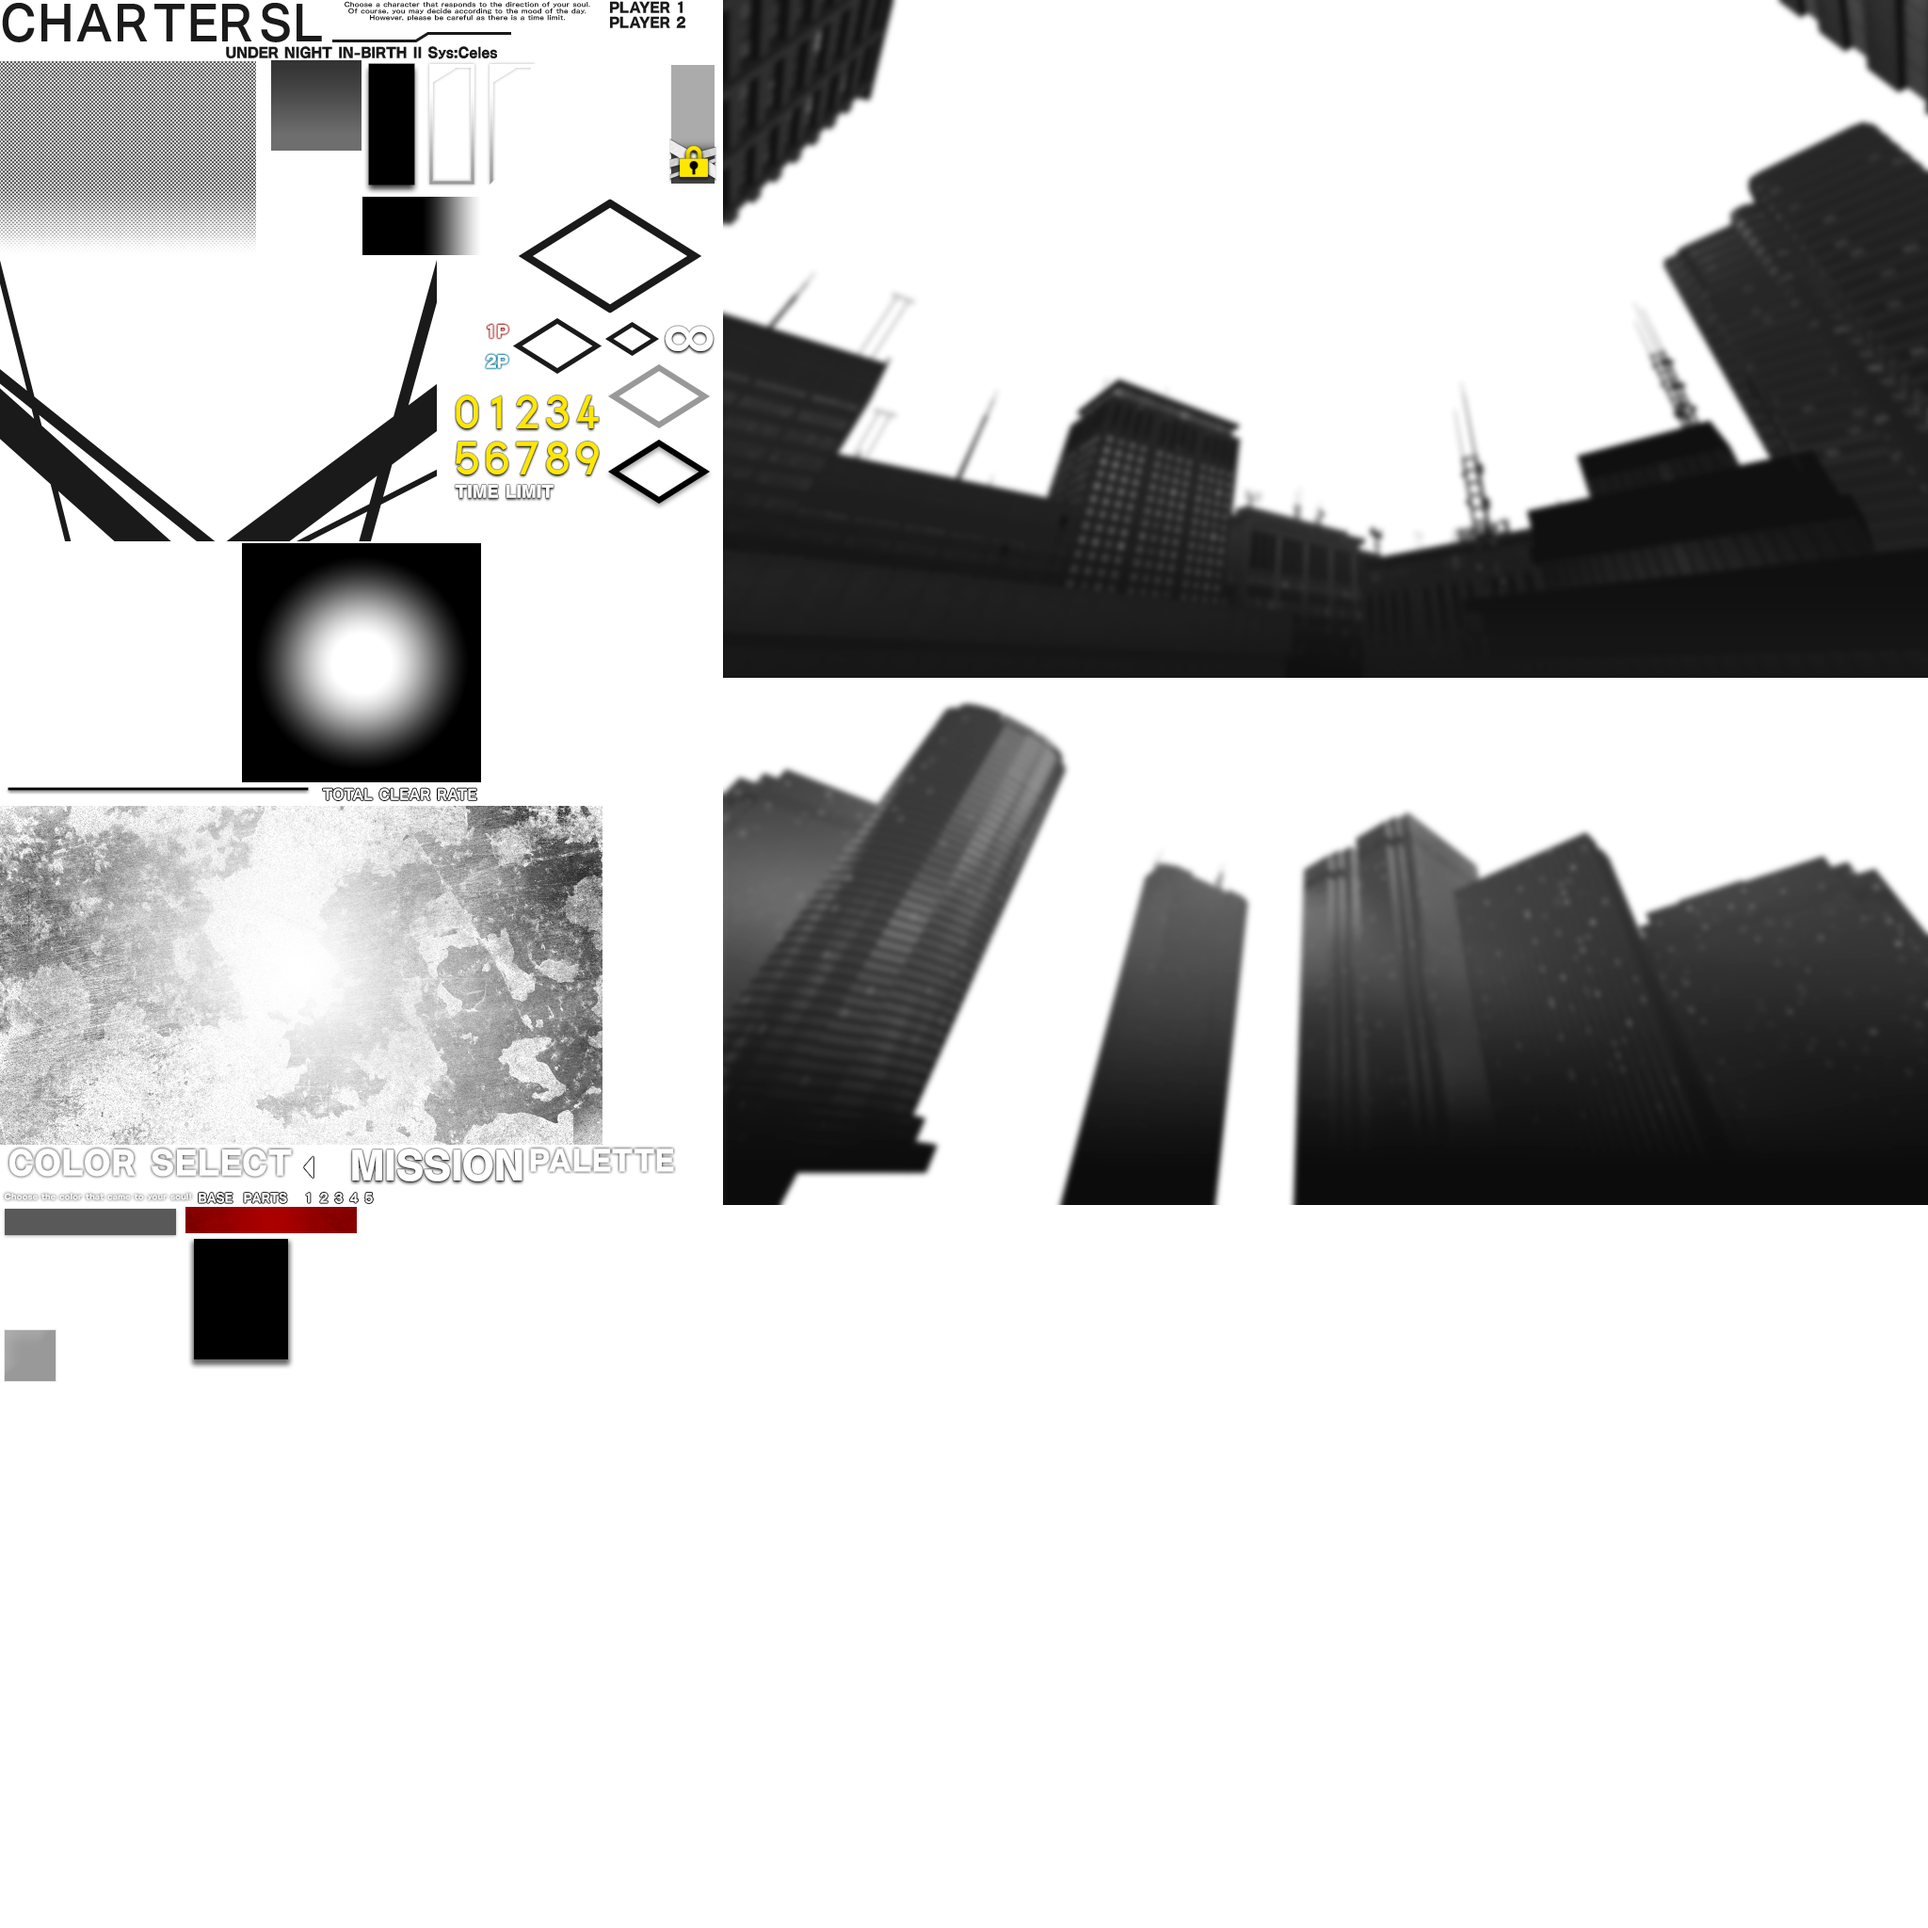
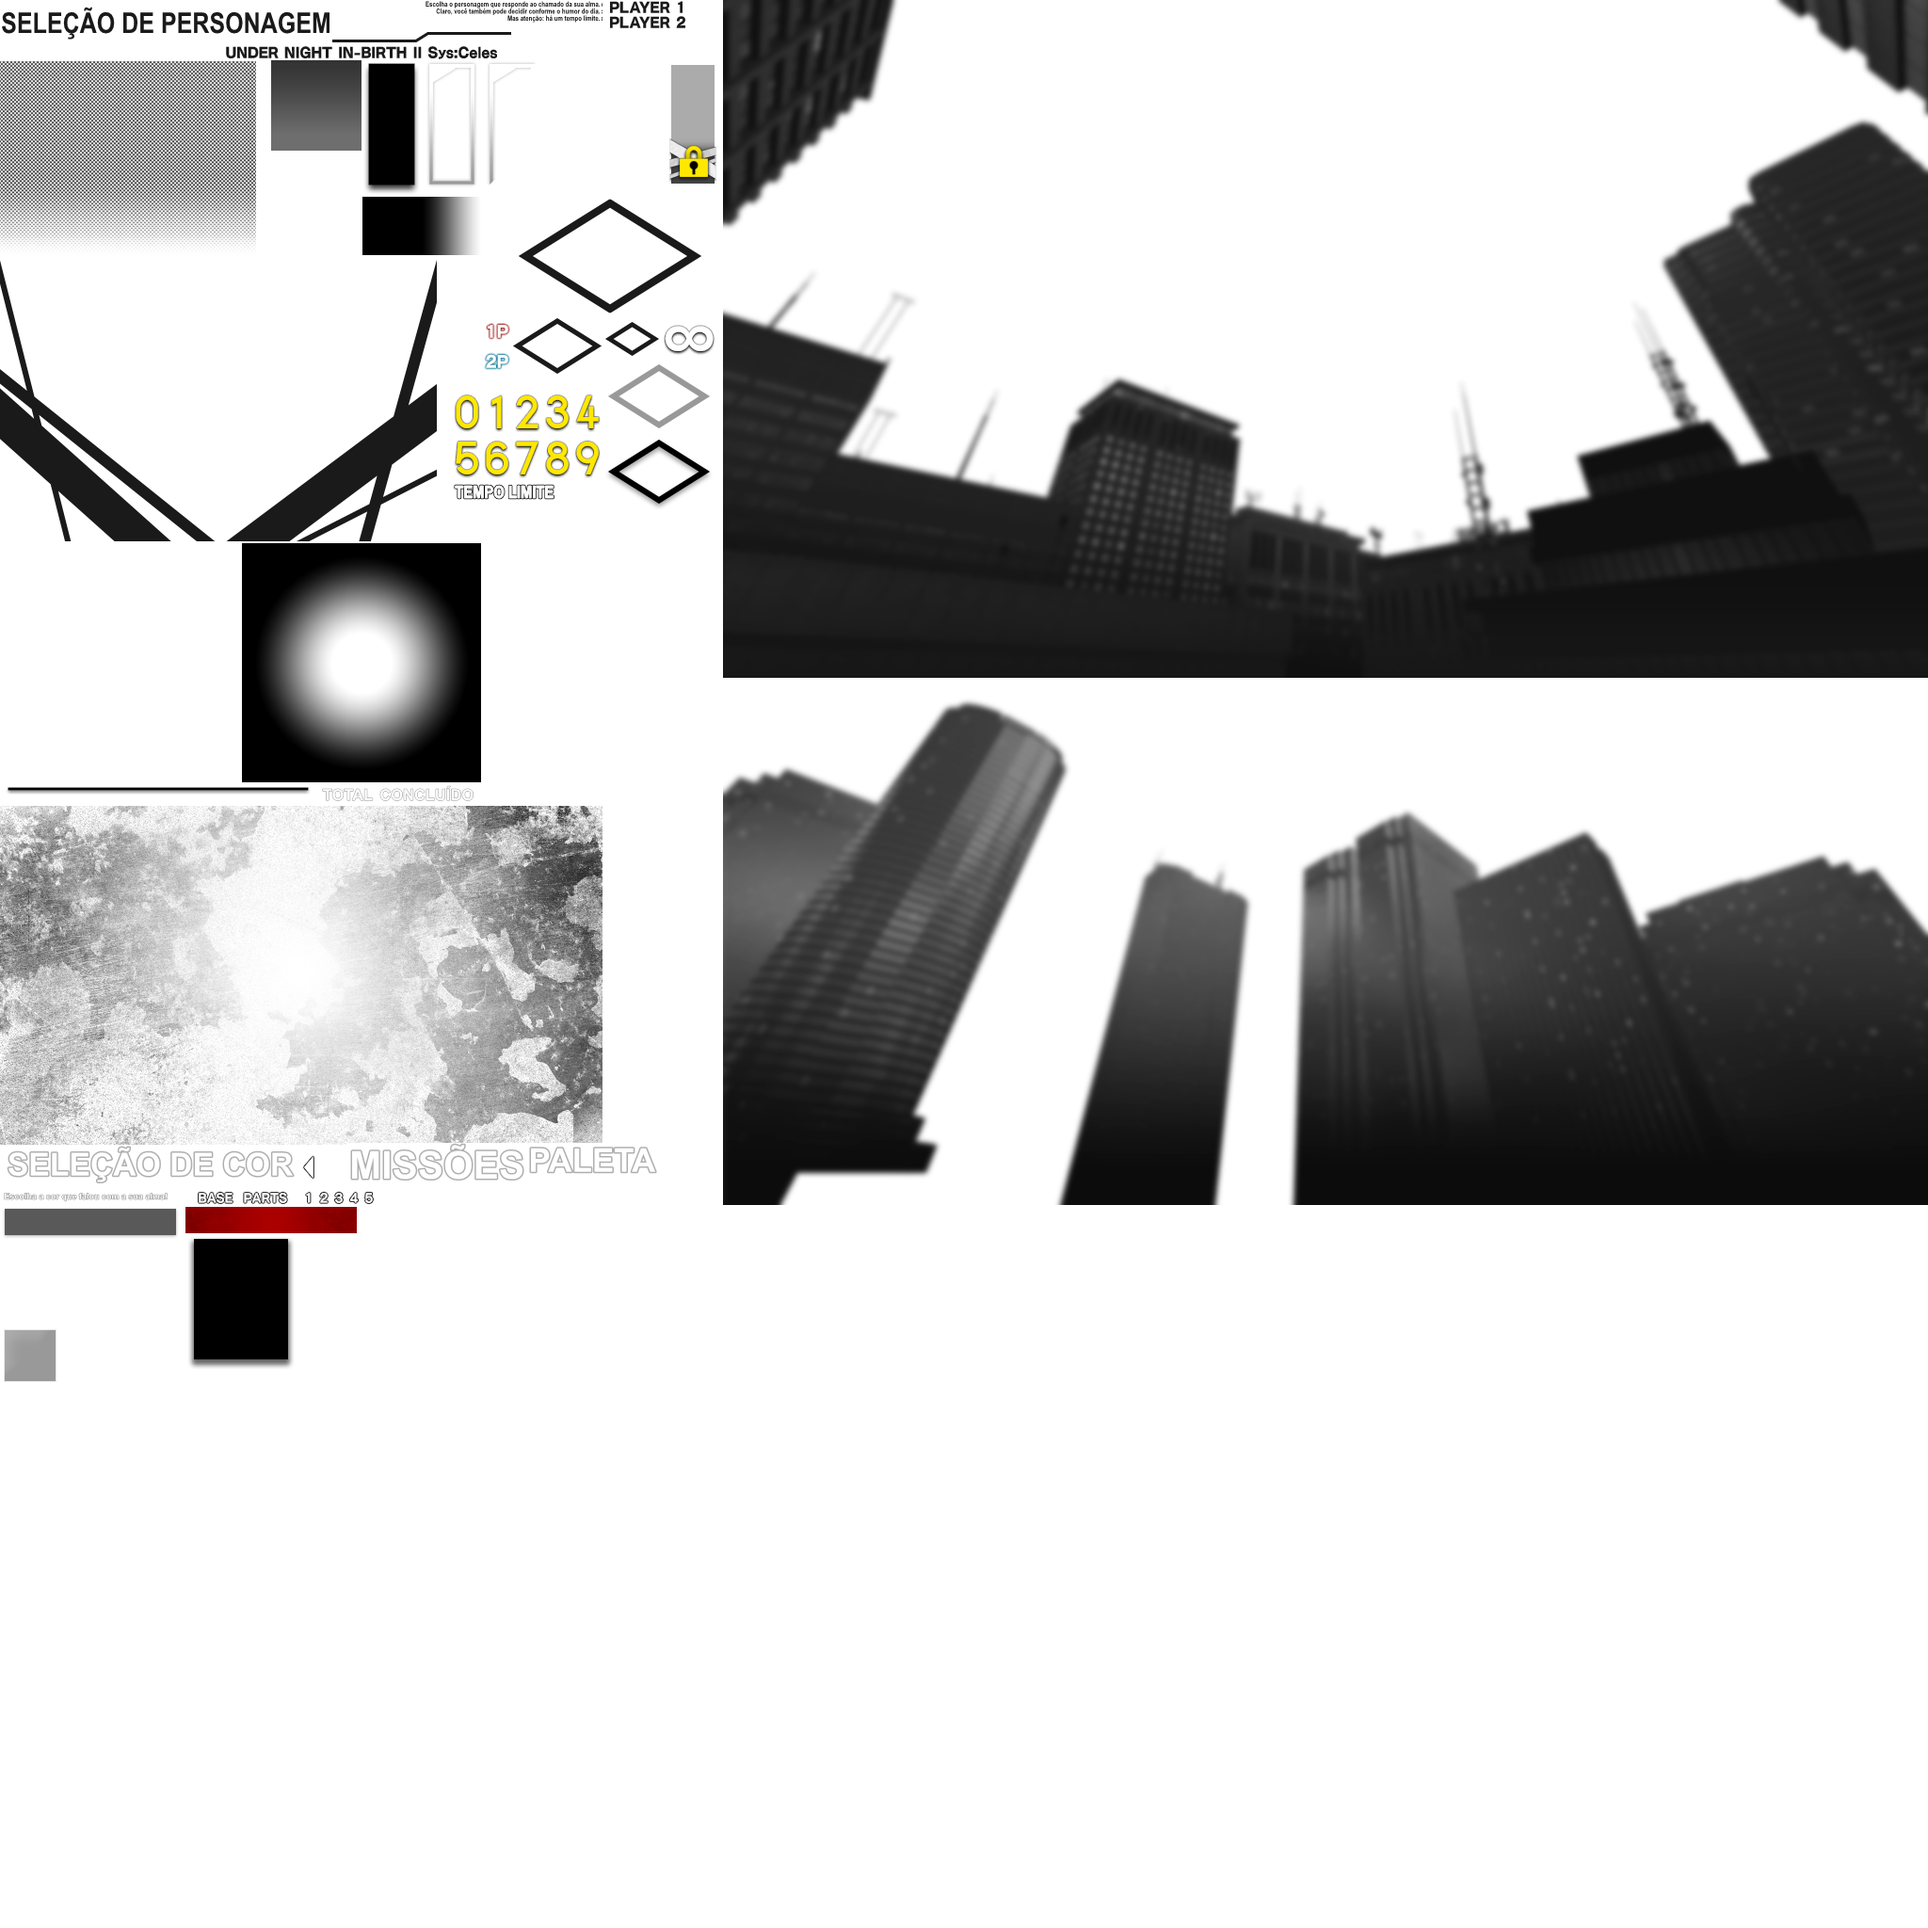
Imagens do HUD, do painel de frames e dos perfis; seis rótulos italianos
As telas de batalha e treino estavam fora do repositório. O trabalho tinha
sido feito direto no build/, que é ignorado, então nada disso era revisável
nem reconstruível por quem clonasse. Agora cada página editada está aqui como
PNG, no caminho que o images build procura.

Entra o que foi feito nas últimas rodadas:

- HUD: TIME vira TEMPO e Point vira Ponto, dentro do mesmo espaço que as
  palavras inglesas ocupavam. A primeira tentativa comia a borda do relógio,
  porque o anel ainda tem pixel até x 378 e a limpeza começava em 375.
- Painel de frames: INICIAL, TOTAL, VANTAGEM, DEFESA, DANO, COMBO e COMBO
  MÁX., na altura de maiúscula do original.
- Cabeçalhos do Damage info.: Base, Barra, Escala e Recuperação.
- Título do painel: Damage vira Dano. A letra do jogo é larga e fina, com só
  16% dos pixels perto do branco; em Arial Narrow negrito o miolo virava
  branco chapado. Em Arial normal corpo 10 o perfil de peso linha a linha
  fica a 9,0% do original — a mesma distância que há entre Frame e Damage,
  que são as duas arte original.
- Rótulos de dano: Dano base e Dano bônus ganham uma borda cinza, que é o que
  faltava para eles não sumirem sobre cenário claro.

Nas planilhas, seis rótulos ainda saíam em italiano: Muro, Centro, Vorpal,
Discendente, Basso e Antiaereo. Eles são palavra única embrulhada em marcação
de cor (\cEAE9FFLow\cX), e o filtro que separa texto de identificador lia
aquilo como caminho de arquivo e descartava a linha.
[…]

diff --git a/progresso/imagens.md b/progresso/imagens.md
@@ -3,10 +3,12 @@
 Texto desenhado dentro da imagem. Precisa de editor gráfico, não de planilha.
 Abra o PNG, troque as palavras e **não mude o tamanho em pixels**.
 
-_Atualizado em 2026-10-01. 15 de 45 prontas._
+_Atualizado em 2026-10-02. 19 de 49 prontas._
 
 | Imagem | Arquivo | Situação | Quem fez | Revisor |
 | --- | --- | --- | --- | --- |
+| csel00.pat | `uni2-ptbr/images/___English/grpdat/CSel/csel00.pat` | **Pronto** | | |
+| stage_select00.pat | `uni2-ptbr/images/___English/grpdat/CSel/stage_select00.pat` | **Pronto** | | |
 | customize_list00.dds | `uni2-ptbr/images/___English/grpdat/Customize/customize_list00.dds` | **Pronto** | | |
 | gallery_list00.dds | `uni2-ptbr/images/___English/grpdat/Gallery/gallery_list00.dds` | **Pronto** | | |
 | mainmenu_bg00.pat | `uni2-ptbr/images/___English/grpdat/MainMenuCS/mainmenu_bg00.pat` | **Pronto** | | |
@@ -17,14 +19,14 @@ _Atualizado em 2026-10-01. 15 de 45 prontas._
 | single_list00.dds | `uni2-ptbr/images/___English/grpdat/singleplay/single_list00.dds` | **Pronto** | | |
 | sys_win_title10.dds | `uni2-ptbr/images/___English/grpdat/System/sys_win_title10.dds` | **Pronto** | | |
 | tutorial00.dds | `uni2-ptbr/images/___English/grpdat/System/tutorial00.dds` | **Pronto** | | |
+| gauge_00.dds | `uni2-ptbr/images/grpdat/Cockpit/gauge_00.dds` | **Pronto** | | |
 | sys_controller00.dds | `uni2-ptbr/images/grpdat/System/sys_controller00.dds` | **Pronto** | | |
 | sys_win_title00.dds | `uni2-ptbr/images/grpdat/System/sys_win_title00.dds` | **Pronto** | | |
 | sys_win_title01.dds | `uni2-ptbr/images/grpdat/System/sys_win_title01.dds` | **Pronto** | | |
 | sys_win_title02.dds | `uni2-ptbr/images/grpdat/System/sys_win_title02.dds` | **Pronto** | | |
 | sys_win_title0s_steam.dds | `uni2-ptbr/images/grpdat/System/sys_win_title0s_steam.dds` | **Pronto** | | |
+| sys_win00.dds | `uni2-ptbr/images/grpdat/System/sys_win00.dds` | **Pronto** | | |
 | talk00.dds | `uni2-ptbr/images/___English/BattleRes/talk/st_grp/talk00.dds` | A fazer | | |
-| csel00.pat | `uni2-ptbr/images/___English/grpdat/CSel/csel00.pat` | A fazer | | |
-| stage_select00.pat | `uni2-ptbr/images/___English/grpdat/CSel/stage_select00.pat` | A fazer | | |
 | customize00.pat | `uni2-ptbr/images/___English/grpdat/Customize/customize00.pat` | A fazer | | |
 | NewCezanne-B_16_0.dds | `uni2-ptbr/images/___English/grpdat/Font/NewCezanne-B_16_0.dds` | A fazer | | |
 | NewCezanne-B_16_1.dds | `uni2-ptbr/images/___English/grpdat/Font/NewCezanne-B_16_1.dds` | A fazer | | |
@@ -38,6 +40,7 @@ _Atualizado em 2026-10-01. 15 de 45 prontas._
 | round_d00.pat | `uni2-ptbr/images/grpdat/Announce/round_d00.pat` | A fazer | | |
 | result_m00.dds | `uni2-ptbr/images/grpdat/BattleResult/result_m00.dds` | A fazer | | |
 | result00.pat | `uni2-ptbr/images/grpdat/BattleResult/result00.pat` | A fazer | | |
+| gauge_ef01.pat | `uni2-ptbr/images/grpdat/Cockpit/gauge_ef01.pat` | A fazer | | |
 | gameover00.pat | `uni2-ptbr/images/grpdat/Continue/gameover00.pat` | A fazer | | |
 | customize_list00.dds | `uni2-ptbr/images/grpdat/Customize/customize_list00.dds` | A fazer | | |
 | gallery_list00.dds | `uni2-ptbr/images/grpdat/Gallery/gallery_list00.dds` | A fazer | | |
@@ -49,6 +52,7 @@ _Atualizado em 2026-10-01. 15 de 45 prontas._
 | replay00.pat | `uni2-ptbr/images/grpdat/Network/new/replay00.pat` | A fazer | | |
 | single_list00.dds | `uni2-ptbr/images/grpdat/singleplay/single_list00.dds` | A fazer | | |
 | result_mes00.dds | `uni2-ptbr/images/grpdat/System/result_mes00.dds` | A fazer | | |
+| sys_combo00.pat | `uni2-ptbr/images/grpdat/System/sys_combo00.pat` | A fazer | | |
 | tutorial00.dds | `uni2-ptbr/images/grpdat/System/tutorial00.dds` | A fazer | | |
 | result_mes00.dds | `uni2-ptbr/images/grpdat/Winner/result_mes00.dds` | A fazer | | |
 | winner_bg00.pat | `uni2-ptbr/images/grpdat/Winner/winner_bg00.pat` | A fazer | | |

diff --git a/README.md b/README.md
@@ -31,9 +31,9 @@ imagens. É o material de trabalho da equipe.
 | Tutorial | A fazer | [abrir](progresso/tutorial.md) |
 | Missões | A fazer | [abrir](progresso/missoes.md) |
 | Menus e Sistema | Em andamento (55%) | [abrir](progresso/menus.md) |
-| Imagens com texto | Em andamento (33%) | [abrir](progresso/imagens.md) |
+| Imagens com texto | Em andamento (39%) | [abrir](progresso/imagens.md) |
 
-_Atualizado em 2026-10-01._
+_Atualizado em 2026-10-02._
 
 <!-- progresso:fim -->
 
@@ -98,6 +98,25 @@ pedir outra ordem.
 Quem pegar imagens recebe PNGs comuns. Troque as palavras e **salve no mesmo
 tamanho em pixels** — o jogo recorta essas imagens em pedaços de medida fixa,
 então mudar a altura ou a largura desalinha tudo na tela.
+
+### Imagens que a ferramenta ainda não remonta sozinha
+
+Alguns atlas guardam as páginas comprimidas dentro do `.pat`, e o leitor do
+uni2loc só enxerga as páginas cruas. Os PNGs traduzidos destes arquivos estão
+no repositório e o mod instalado já os usa, mas `uni2loc images build` passa
+por eles sem reempacotar:
+
+- `grpdat/Cockpit/gauge_ef01.pat` — painel de frames e cabeçalhos do dano
+- `grpdat/CSel/csel00.pat` (página `single_00`) — topo da seleção de personagem
+- `grpdat/Customize/customize00.pat`
+- `grpdat/Gallery/gallery00.pat`
+- `grpdat/Network/new/network00.pat`
+- `grpdat/System/sys_combo00.pat` — rótulos de dano
+- `grpdat/singleplay/sp_prof00.pat` — perfis do modo arcade
+
+Enquanto isso não for resolvido, rodar `images build` por cima de um `build/`
+pronto devolve essas páginas ao original. Reinstale a partir de um `build/`
+completo, ou refaça essas páginas à mão.
 
 ---
 

diff --git a/progresso/menus.md b/progresso/menus.md
@@ -2,7 +2,7 @@
 
 Telas de opção, mensagens de erro, nomes de golpes. A maior parte já está pronta.
 
-_Atualizado em 2026-10-01._
+_Atualizado em 2026-10-02._
 
 | Item | Arquivo | Frases | Situação | Tradutor | Revisor |
 | --- | --- | ---: | --- | --- | --- |
@@ -16,7 +16,7 @@ _Atualizado em 2026-10-01._
 | stringfile_battlevoice | `uni2-ptbr/text/System/str_jp/stringfile_battlevoice.csv.csv` | 641 | A fazer | | |
 | stringfile_command | `uni2-ptbr/text/System/str_jp/stringfile_command.csv.csv` | 34 | **Pronto** | | |
 | stringfile_mission | `uni2-ptbr/text/System/str_jp/stringfile_mission.csv.csv` | 70 | **Pronto** | | |
-| stringfile_tutorial | `uni2-ptbr/text/System/str_jp/stringfile_tutorial.csv.csv` | 186 | Em andamento (98%) | | |
+| stringfile_tutorial | `uni2-ptbr/text/System/str_jp/stringfile_tutorial.csv.csv` | 192 | Em andamento (98%) | | |
 | sysstring | `uni2-ptbr/text/System/str_jp/sysstring.ini.csv` | 147 | Em andamento (93%) | | |
 | dialog | `uni2-ptbr/text/grpdat/Network/csv/dialog.csv.csv` | 189 | **Pronto** | | |
 | cmddef_name | `uni2-ptbr/text/grpdat/command/cmddef_name.ini.csv` | 631 | A fazer | | |

diff --git a/progresso/missoes.md b/progresso/missoes.md
@@ -2,7 +2,7 @@
 
 Os desafios de combo. Também num arquivo só, mas dá para separar por personagem pelo prefixo de três letras na coluna `key`.
 
-_Atualizado em 2026-10-01._
+_Atualizado em 2026-10-02._
 
 | Item | Arquivo | Frases | Situação | Tradutor | Revisor |
 | --- | --- | ---: | --- | --- | --- |

diff --git a/progresso/tutorial.md b/progresso/tutorial.md
@@ -2,7 +2,7 @@
 
 Tudo num arquivo só. Cada linha aqui é um tipo de entrada: dá para uma pessoa pegar um tipo inteiro sem atrapalhar as outras.
 
-_Atualizado em 2026-10-01._
+_Atualizado em 2026-10-02._
 
 | Item | Arquivo | Frases | Situação | Tradutor | Revisor |
 | --- | --- | ---: | --- | --- | --- |

diff --git a/progresso/historia.md b/progresso/historia.md
@@ -2,7 +2,7 @@
 
 Os diálogos de arcade, um personagem por linha. É o maior volume do jogo — cada pasta tem vários arquivos, abra todos.
 
-_Atualizado em 2026-10-01._
+_Atualizado em 2026-10-02._
 
 | Item | Arquivo | Frases | Situação | Tradutor | Revisor |
 | --- | --- | ---: | --- | --- | --- |

diff --git a/progresso/vitoria.md b/progresso/vitoria.md
@@ -2,7 +2,7 @@
 
 As falas que aparecem na tela de resultado depois de ganhar uma luta.
 
-_Atualizado em 2026-10-01._
+_Atualizado em 2026-10-02._
 
 | Item | Arquivo | Frases | Situação | Tradutor | Revisor |
 | --- | --- | ---: | --- | --- | --- |
